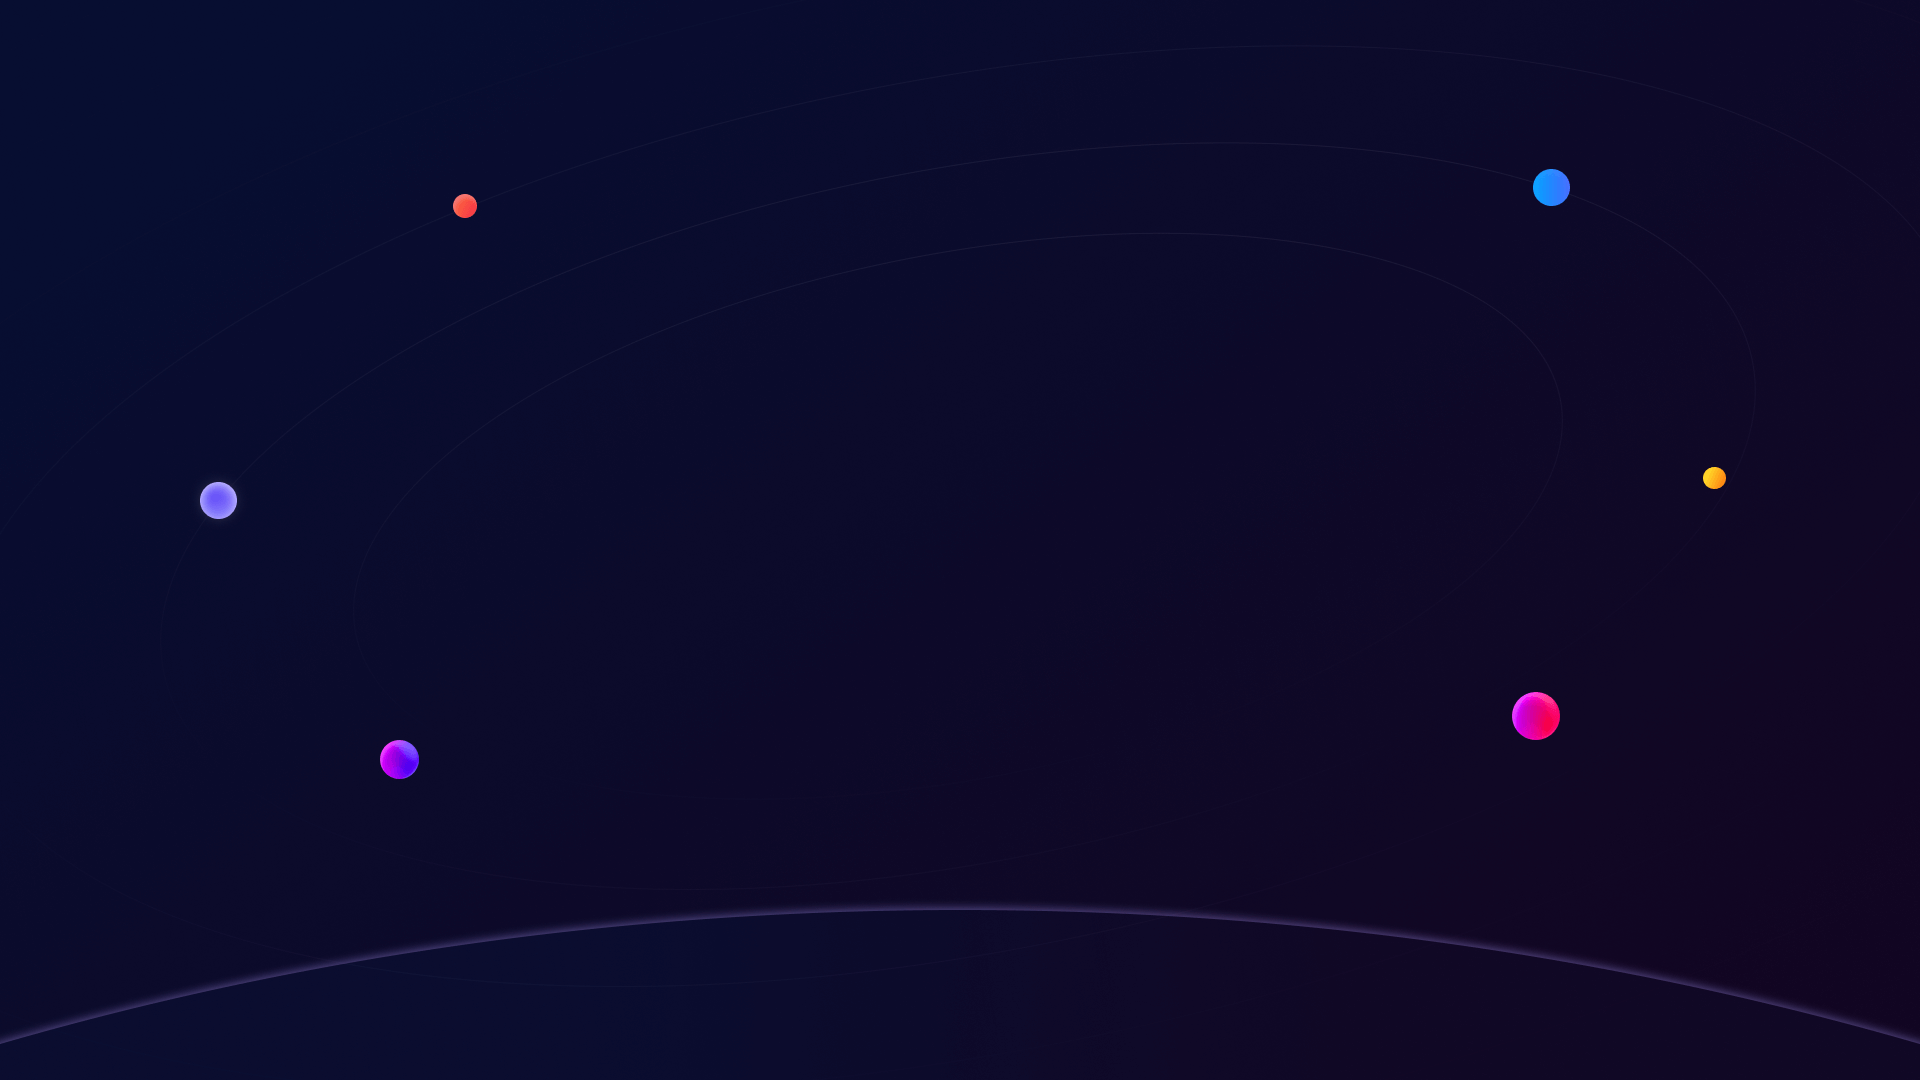
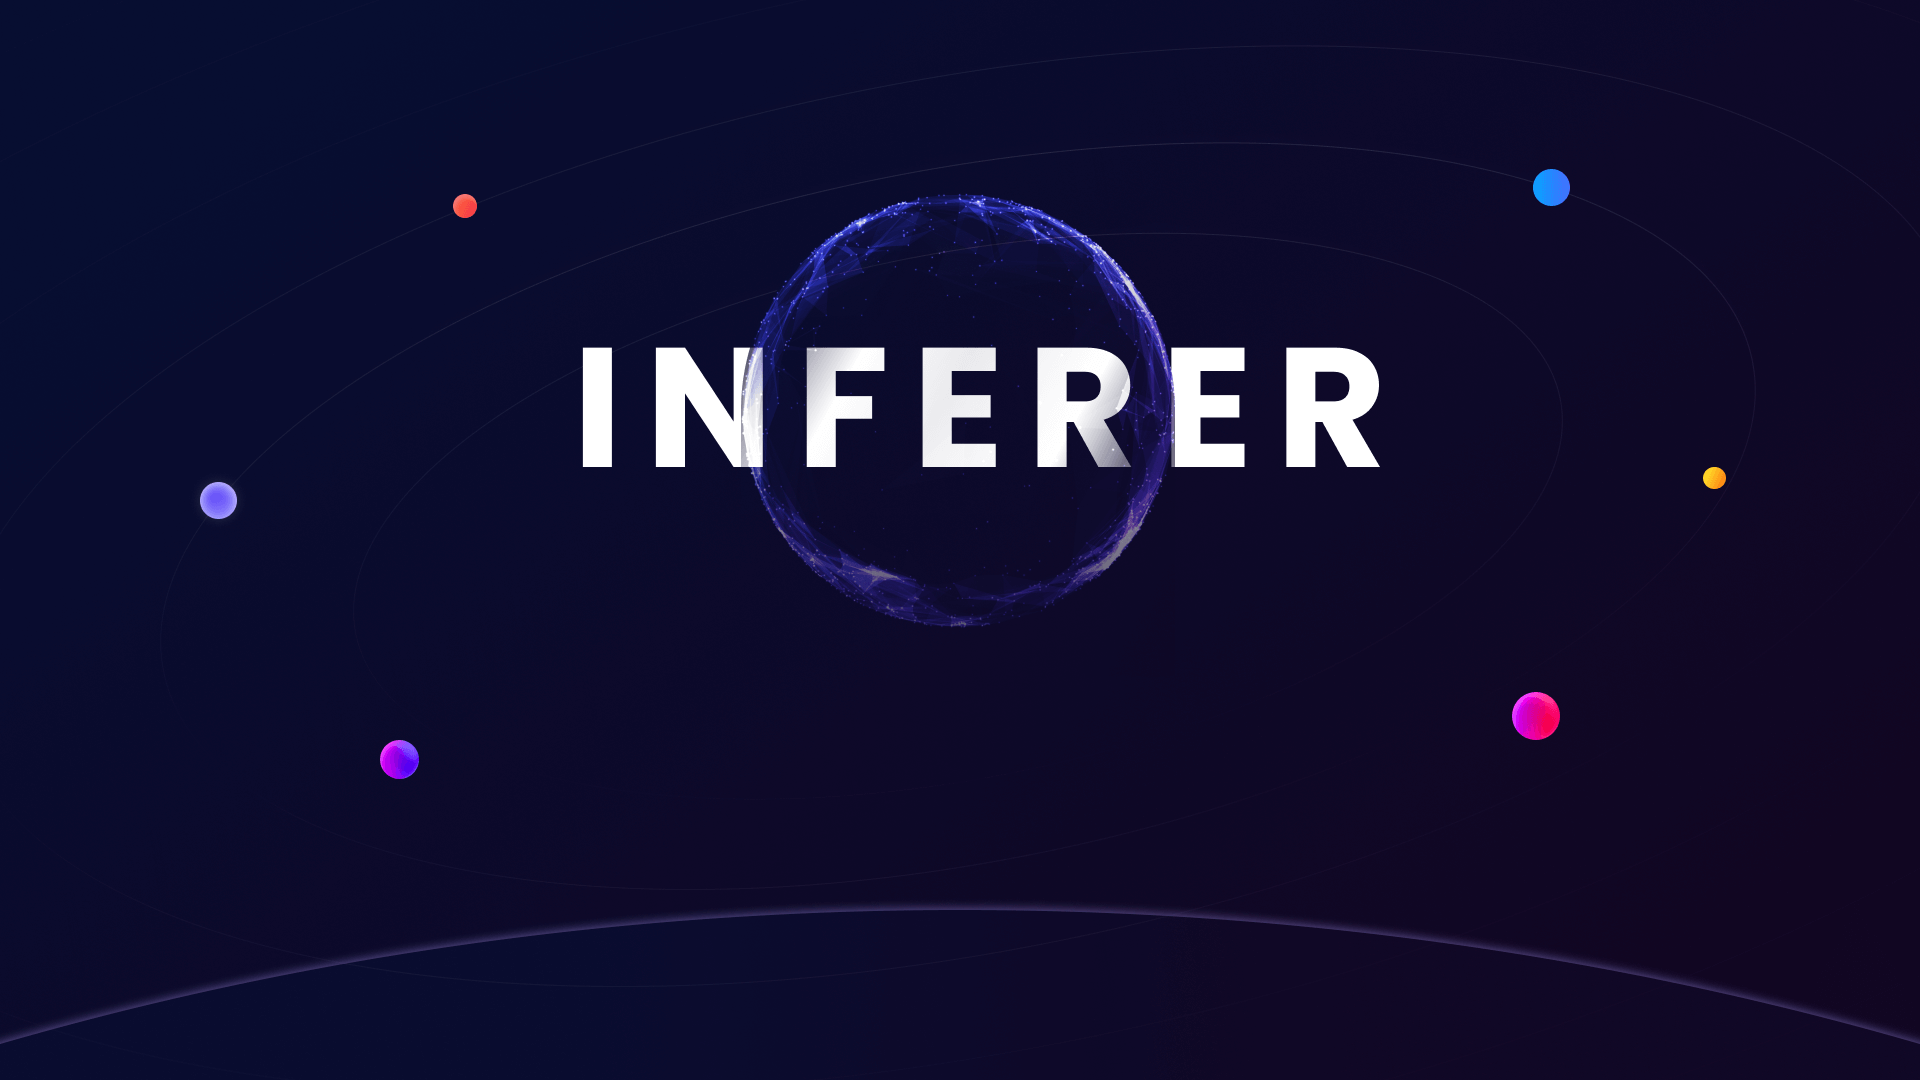
Update:
1、新UI调整完成

Changed region(s): [[0.2812, 0.1833, 0.7188, 0.5806]]

diff --git a/components/pc/home/SubPage1.js b/components/pc/home/SubPage1.js
@@ -4,8 +4,16 @@ import LazyImage from "../../LazyImage";
 const SubPage1 = () => {
   return (
     <div className="bg-[url('/pc/subpage1_bg.png')] flex justify-center bg-no-repeat" style={{backgroundSize: '100% auto', backgroundColor: '#0f0923'}}>
-      <div className="max-w-[1200px] py-[10.00vw]">
-        <LazyImage src='/pc/subpage1_text.png' className="w-[42vw] h-auto max-w-[815px]" />
+      <div className="max-w-[1200px] py-[10.00vw] ">
+        {/* <LazyImage src='/pc/subpage1_text.png' className="w-[42vw] h-auto max-w-[815px]" /> */}
+        <div className="w-[43.75vw] h-[36.145vw] pt-[26.56vw] relative">
+          <LazyImage src='/pc/star.png' className="w-[6.21vw] h-auto absolute left-[50%] -ml-[3.105vw] top-[16.979vw]" /> 
+          <LazyImage src='/pc/star.png' className="w-[6.21vw] h-auto absolute right-0 -mr-[3.205vw] top-[26.7645vw]" /> 
+          <div className=" uppercase text-[#4E4D7A] text-[1.1458vw] tracking-[0.08em] leading-[33px] text-center">
+            <div>Built on data analysis, serve for web3 identity </div>
+            <div>Hope to help contribute to great user ecosystem on chain</div>
+          </div>
+        </div>
       </div>
     </div>
   )

diff --git a/components/h5/home/SubPage2.js b/components/h5/home/SubPage2.js
@@ -14,7 +14,8 @@ const SubPage2 = () => {
           </TextWrap>
         </div>
         <div className="mt-[10.6667vw] sm:mt-[92px]">
-          <LazyImage src="/h5/inferer.png" className="w-[80vw] h-[31.0667vw] sm:w-[995px] sm:h-[387px]" />
+          <LazyImage src="/h5/inferer.png" className="w-[80vw] h-[31.0667vw] sm:w-[995px] sm:h-[387px] block sm:hidden" />
+          <LazyImage src="/pc/inferer.png" className="w-[80vw] h-[31.0667vw] sm:w-[995px] sm:h-[387px] hidden sm:block" />
         </div>
         <Title text="Why we build Inferer?" className="mt-[9.3333vw] sm:mt-[120px]" />
         <div className="px-[5.3333vw] sm:px-0 mt-[3.2vw] sm:mt-8">
